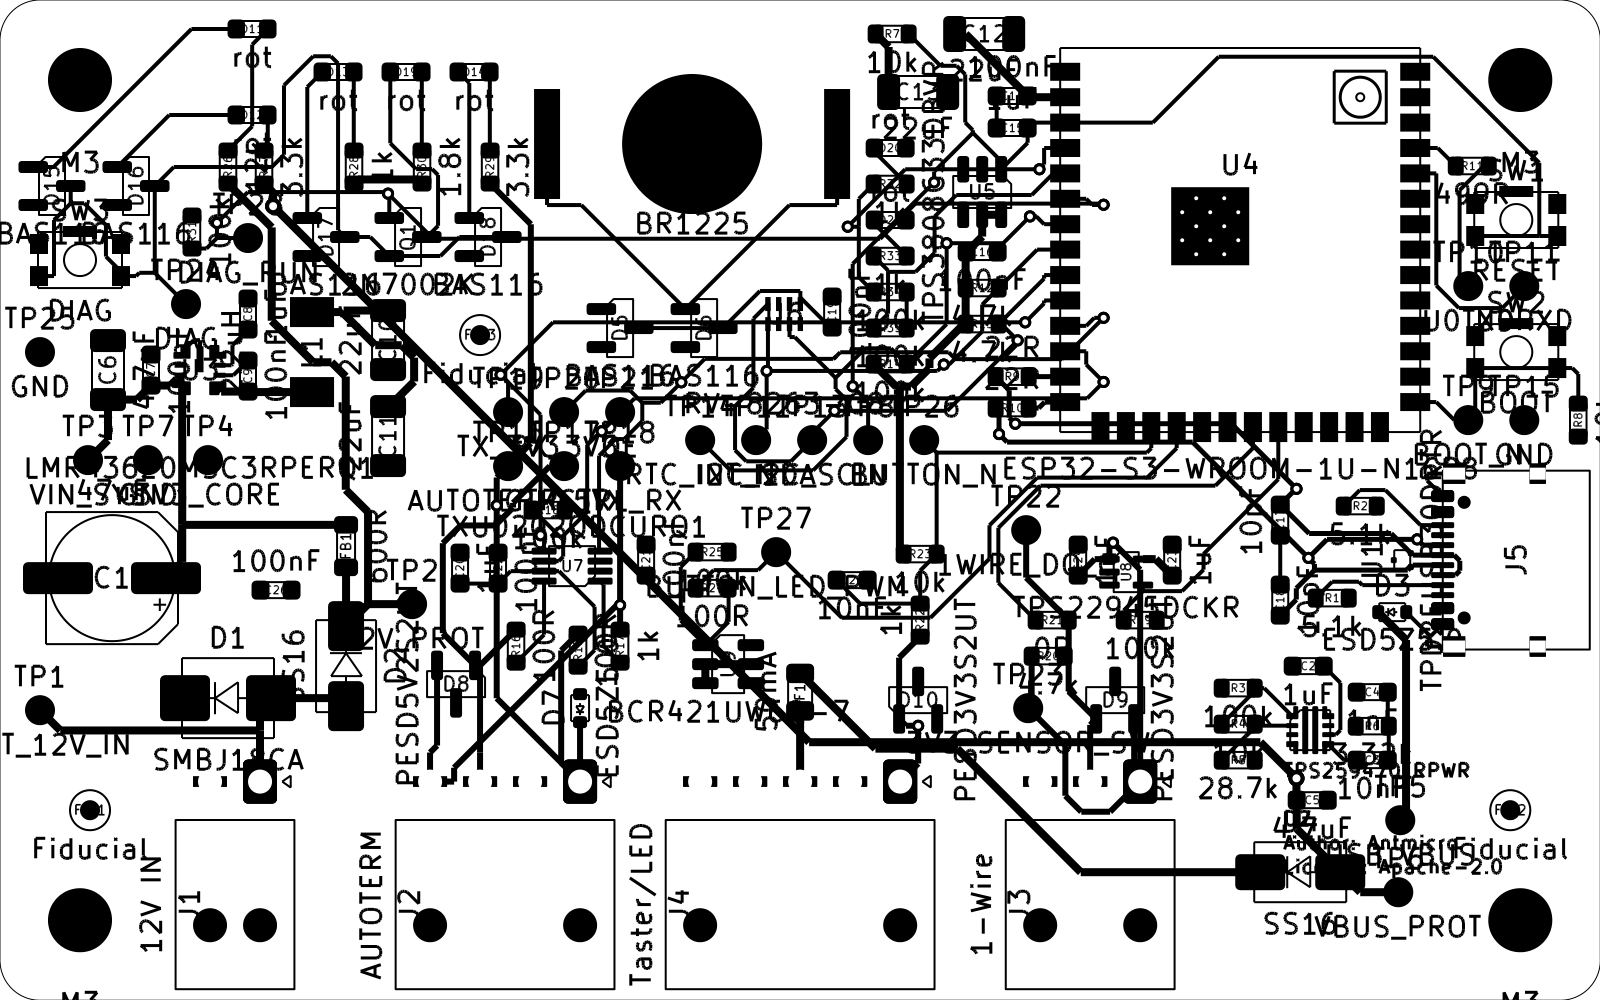
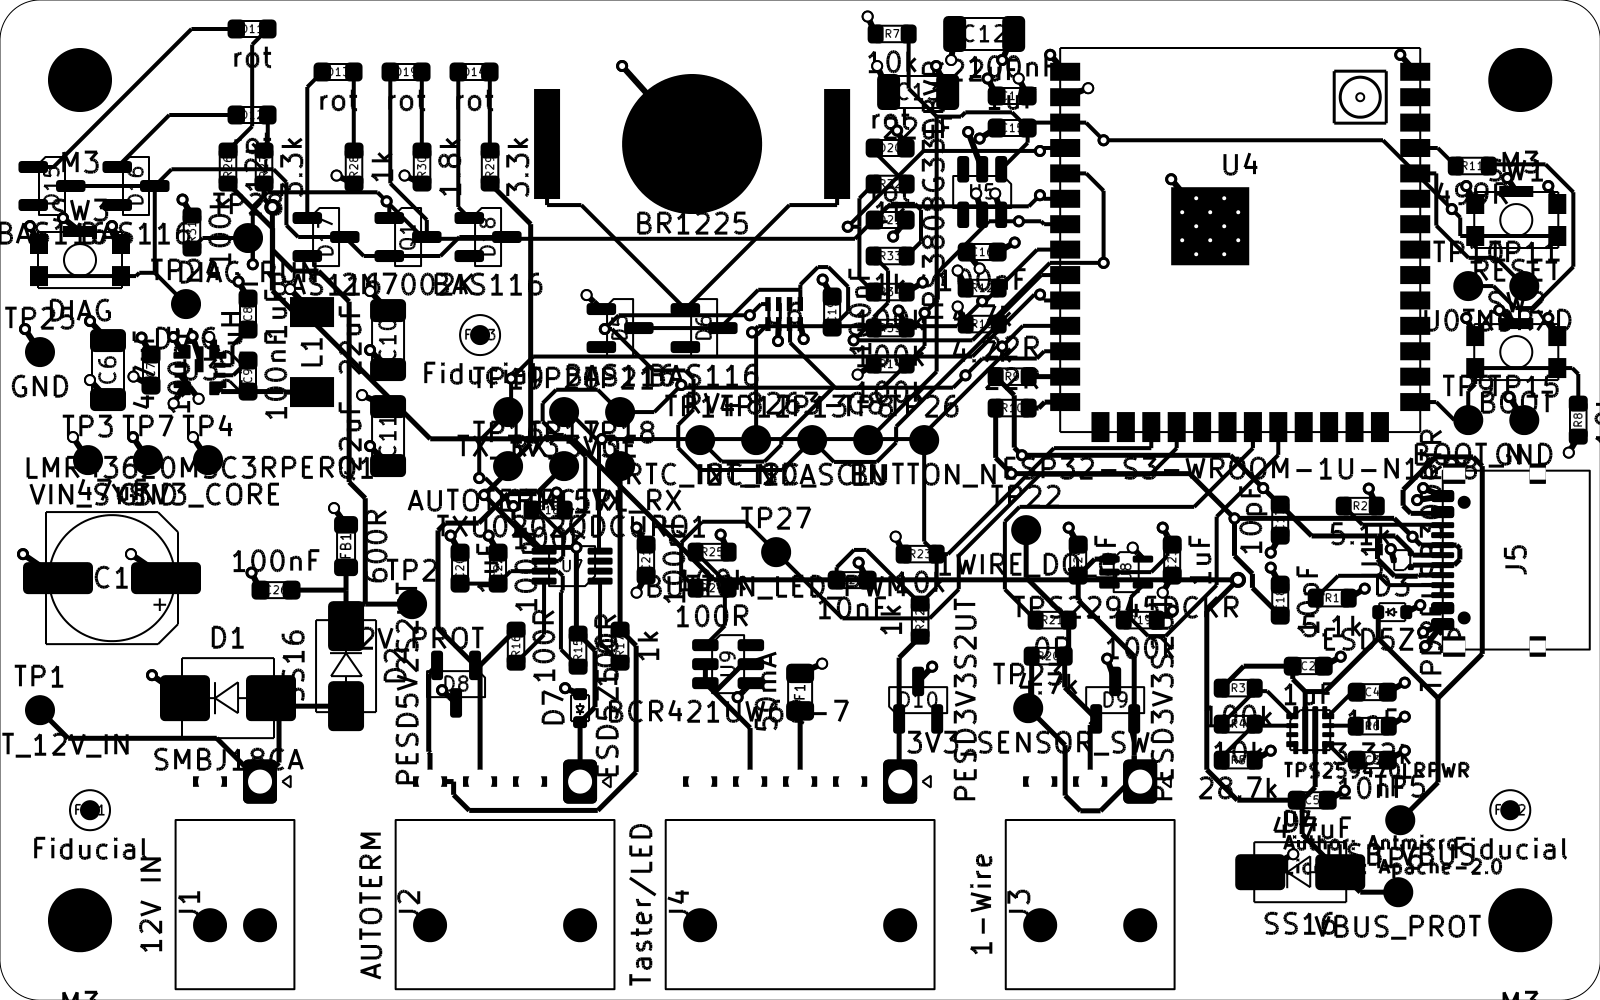
Prove routability: split L3 trial leaves 4 hand connections, 0 violations
- tools/trial_plane_fanout.py: plane vias for the trial (Freerouting 2.1.0
  fanout crashes), options for full, split and signal-only L3
- Trial 9 (L2 GND, L3 split VIN_SYS/3V3): all signals routed, 0 rule
  violations, 4 short fine-pitch/connector connections left for hand routing
- Fiducial keepout rule areas added by tools/place_v2.py
- Report section 10 rewritten with all runs and routing conclusions

diff --git a/kicad/tools/trial_plane_fanout.py b/kicad/tools/trial_plane_fanout.py
@@ -1,0 +1,140 @@
+"""NUR FÜR DEN ROUTBARKEITS-PROBELAUF auf einer Kopie: setzt neben jedes SMD-Pad eines Flächennetzes ein Via
+mit kurzer Verbindung (Fan-out) und legt die Probe-Ebenen an: GND auf In1.Cu, 3V3_CORE auf In2.Cu.
+Freerouting 2.1.0 kann das nicht selbst (Fan-out-Routine bricht mit NullPointerException ab).
+
+Via 0,6/0,3 mm, Leiterbahn 0,3 mm, kein Via-in-Pad, 0,2 mm Abstand zu fremden Netzen (Pads und schon gesetzte Vias),
+0,3 mm zum Rand, Suchradius 1,2 mm um die Padkante.
+Aufruf (KiCad-Python): python3 tools/trial_plane_fanout.py <kopie>.kicad_pcb [--l3-split | --l3-signal]
+--l3-split: L3 geteilt in VIN_SYS (unten/links) und 3V3_CORE (oben).
+--l3-signal: keine 3V3-Ebene; L3 bleibt Lage für Versorgung und langsame Signale, 3V3-Pads bekommen nur Vias.
+"""
+import sys, math
+import pcbnew
+
+PLANES = {'GND': pcbnew.In1_Cu, '3V3_CORE': pcbnew.In2_Cu}
+VIA_ONLY = set()   # Netze, die nur Vias bekommen, ohne eigene Ebene (Option --l3-signal)
+FULL = [(100.3, 100.3), (179.7, 100.3), (179.7, 149.7), (100.3, 149.7)]
+OUTLINE = {}       # Netz -> Polygon; Standard ganze Platine
+# Option --l3-split: L3 geteilt – VIN_SYS unten/links (12-V-Seite), 3V3_CORE oben (Last), 0,4 mm Trennspalt
+SPLIT = {
+    'VIN_SYS': [(100.3, 116.0), (109.3, 116.0), (109.3, 124.6), (121.0, 124.6), (121.0, 131.0), (179.7, 131.0), (179.7, 149.7), (100.3, 149.7)],
+    '3V3_CORE': [(100.3, 100.3), (179.7, 100.3), (179.7, 130.6), (121.4, 130.6), (121.4, 124.2), (109.7, 124.2), (109.7, 115.6), (100.3, 115.6)],
+}
+VIA_D, DRILL, W, CLR, SEARCH = 0.6, 0.3, 0.3, 0.2, 1.2
+BOARD = (100.0, 100.0, 180.0, 150.0)
+
+
+def main(path):
+    b = pcbnew.LoadBoard(path); mm, fm = pcbnew.ToMM, pcbnew.FromMM
+    # Probe-Ebenen
+    for net, layer in PLANES.items():
+        if net in VIA_ONLY: continue
+        if any(z.GetLayer() == layer and z.GetNetname() == net for z in b.Zones()):
+            continue
+        b.SetLayerType(layer, pcbnew.LT_POWER)
+        z = pcbnew.ZONE(b); z.SetLayer(layer); z.SetNet(b.FindNet(net))
+        o = z.Outline(); o.NewOutline()
+        for x, y in OUTLINE.get(net, FULL):
+            o.Append(fm(x), fm(y))
+        z.SetLocalClearance(fm(0.2)); z.SetMinThickness(fm(0.2)); b.Add(z)
+    pads = []
+    for f in b.GetFootprints():
+        for p in f.Pads():
+            if not p.IsOnLayer(pcbnew.F_Cu): continue
+            bb = p.GetBoundingBox()
+            pads.append((f.GetReference(), p, p.GetNetname(),
+                         (mm(bb.GetLeft()), mm(bb.GetTop()), mm(bb.GetRight()), mm(bb.GetBottom())), p.GetDrillSize().x > 0))
+
+    def drect(x, y, r):
+        return math.hypot(min(max(x, r[0]), r[2]) - x, min(max(y, r[1]), r[3]) - y)
+
+    vias = []          # (x, y, net)
+    placed, failed, viapad = 0, [], []
+    for ref, p, net, r, tht in pads:
+        if net not in PLANES or tht: continue
+        cx, cy = (r[0] + r[2]) / 2, (r[1] + r[3]) / 2
+
+        def seg_ok(x1, y1, x2, y2, w=W, target=None):
+            for _, _, n2, r2, _ in pads:
+                if r2 is r or r2 is target or n2 == net: continue
+                for k in range(0, 21):
+                    t = k / 20; px, py = x1 + (x2 - x1) * t, y1 + (y2 - y1) * t
+                    if drect(px, py, r2) < w / 2 + CLR: return False
+            return True
+
+        def search(sx, sy):
+            best = None
+            for j in range(int((r[3] - r[1] + 2 * SEARCH) / 0.1) + 1):
+                for i in range(int((r[2] - r[0] + 2 * SEARCH) / 0.1) + 1):
+                    x, y = r[0] - SEARCH + i * 0.1, r[1] - SEARCH + j * 0.1
+                    if not (BOARD[0] + 0.3 + VIA_D / 2 <= x <= BOARD[2] - 0.3 - VIA_D / 2 and BOARD[1] + 0.3 + VIA_D / 2 <= y <= BOARD[3] - 0.3 - VIA_D / 2):
+                        continue
+                    d0 = drect(x, y, r)
+                    if d0 < VIA_D / 2 + 0.1: continue                         # kein Via-in-Pad
+                    if any(r2 is not r and drect(x, y, r2) < VIA_D / 2 + (0.1 if n2 == net else CLR) for _, _, n2, r2, _ in pads):
+                        continue
+                    if any(math.hypot(x - vx, y - vy) < VIA_D + (0.05 if vn == net else CLR) for vx, vy, vn in vias):
+                        continue
+                    if best is not None and d0 >= best[0]: continue
+                    if seg_ok(sx, sy, x, y): best = (d0, x, y)
+            return best
+
+        route = None
+        best = search(cx, cy)
+        if best is not None:
+            route = [(cx, cy), (best[1], best[2])]
+        else:
+            # L-förmiger Ausstieg: erst senkrecht aus dem Pin heraus, dann zum Via
+            hw, hh = (r[2] - r[0]) / 2, (r[3] - r[1]) / 2
+            for dx, dy in [(hw + 0.45, 0), (-hw - 0.45, 0), (0, hh + 0.45), (0, -hh - 0.45)]:
+                ex, ey = cx + dx, cy + dy
+                if not seg_ok(cx, cy, ex, ey): continue
+                best = search(ex, ey)
+                if best is not None:
+                    route = [(cx, cy), (ex, ey), (best[1], best[2])]; break
+        if route is None:
+            # Innenpins von Feinraster-ICs: zum benachbarten Pad desselben Netzes (Abblockkondensator mit Via),
+            # vgl. TPS25947 8.4.1 (Rückführung der Hilfsbauteile zum GND-Pin)
+            cands = sorted((math.hypot((r2[0] + r2[2]) / 2 - cx, (r2[1] + r2[3]) / 2 - cy), r2, p2) for _, p2, n2, r2, _ in pads
+                           if n2 == net and r2 is not r and p2.GetParentFootprint().GetReference() != ref)
+            for d, r2, p2 in cands:
+                if d > 3.0: break
+                tx, ty = (r2[0] + r2[2]) / 2, (r2[1] + r2[3]) / 2
+                if seg_ok(cx, cy, tx, ty, 0.2, r2):
+                    t = pcbnew.PCB_TRACK(b); t.SetStart(p.GetPosition()); t.SetEnd(p2.GetPosition())
+                    t.SetWidth(fm(0.2)); t.SetLayer(pcbnew.F_Cu); t.SetNet(p.GetNet()); b.Add(t)
+                    viapad.append(f'{ref}.{p.GetNumber()} -> {p2.GetParentFootprint().GetReference()}.{p2.GetNumber()}'); break
+                hw, hh = (r[2] - r[0]) / 2, (r[3] - r[1]) / 2
+                done_ = False
+                for dx, dy in [(hw + 0.45, 0), (-hw - 0.45, 0), (0, hh + 0.45), (0, -hh - 0.45)]:
+                    ex, ey = cx + dx, cy + dy
+                    if seg_ok(cx, cy, ex, ey, 0.2) and seg_ok(ex, ey, tx, ty, 0.2, r2):
+                        for (x1, y1), (x2, y2) in [((cx, cy), (ex, ey)), ((ex, ey), (tx, ty))]:
+                            t = pcbnew.PCB_TRACK(b); t.SetStart(pcbnew.VECTOR2I(fm(x1), fm(y1))); t.SetEnd(pcbnew.VECTOR2I(fm(x2), fm(y2)))
+                            t.SetWidth(fm(0.2)); t.SetLayer(pcbnew.F_Cu); t.SetNet(p.GetNet()); b.Add(t)
+                        viapad.append(f'{ref}.{p.GetNumber()} -> {p2.GetParentFootprint().GetReference()}.{p2.GetNumber()} (L)'); done_ = True; break
+                if done_: break
+            else:
+                failed.append(f'{ref}.{p.GetNumber()} ({net})')
+            continue
+        x, y = route[-1]
+        v = pcbnew.PCB_VIA(b); v.SetPosition(pcbnew.VECTOR2I(fm(x), fm(y))); v.SetWidth(fm(VIA_D)); v.SetDrill(fm(DRILL))
+        v.SetNet(p.GetNet()); b.Add(v)
+        for (x1, y1), (x2, y2) in zip(route, route[1:]):
+            t = pcbnew.PCB_TRACK(b); t.SetStart(pcbnew.VECTOR2I(fm(x1), fm(y1))); t.SetEnd(pcbnew.VECTOR2I(fm(x2), fm(y2)))
+            t.SetWidth(fm(W if len(route) == 2 else 0.2)); t.SetLayer(pcbnew.F_Cu); t.SetNet(p.GetNet()); b.Add(t)
+        vias.append((x, y, net)); placed += 1
+    pcbnew.ZONE_FILLER(b).Fill(b.Zones())
+    b.Save(path)
+    print(f'Fan-out-Vias gesetzt: {placed}; ohne Platz: {len(failed)}')
+    for f in failed: print('  ', f)
+    print(f'über Nachbarpad angebunden: {len(viapad)}')
+    for f in viapad: print('  ', f)
+
+
+if __name__ == '__main__':
+    if '--l3-split' in sys.argv:
+        PLANES['VIN_SYS'] = pcbnew.In2_Cu; OUTLINE.update(SPLIT)
+    if '--l3-signal' in sys.argv:   # L3 bleibt Signal-/Versorgungslage wie im echten Lagenaufbau (Y-02)
+        VIA_ONLY.add('3V3_CORE')
+    main(sys.argv[1])

diff --git a/kicad/tools/place_v2.py b/kicad/tools/place_v2.py
@@ -168,8 +168,25 @@ def main(path):
         f = fps[r]
         f.SetOrientationDegrees(rot)
         f.SetPosition(pcbnew.VECTOR2I(pcbnew.FromMM(x), pcbnew.FromMM(y)))
+    # Sperrflächen um die Passermarken (keine Leiterbahnen, Vias, Kupferflächen; Radius 2 mm), damit jeder
+    # Router – auch Freerouting, das den lokalen Freiraum des Fiducial-Pads nicht kennt – Abstand hält.
+    for z in list(b.Zones()):
+        if z.GetIsRuleArea() and z.GetZoneName().startswith('Sperrfläche FID'):
+            b.Remove(z)
+    for r in ('FID1', 'FID2', 'FID3'):
+        x, y, _ = P[r]
+        z = pcbnew.ZONE(b); z.SetIsRuleArea(True); z.SetZoneName(f'Sperrfläche {r}')
+        z.SetDoNotAllowTracks(True); z.SetDoNotAllowVias(True); z.SetDoNotAllowZoneFills(True)
+        z.SetDoNotAllowPads(False); z.SetDoNotAllowFootprints(False)
+        ls = pcbnew.LSET(); ls.AddLayer(pcbnew.F_Cu); ls.AddLayer(pcbnew.B_Cu); ls.AddLayer(pcbnew.In1_Cu); ls.AddLayer(pcbnew.In2_Cu)
+        z.SetLayerSet(ls)
+        o = z.Outline(); o.NewOutline()
+        for k in range(16):
+            ang = 2 * 3.141592653589793 * k / 16
+            o.Append(pcbnew.FromMM(x + 2.0 * __import__('math').cos(ang)), pcbnew.FromMM(y + 2.0 * __import__('math').sin(ang)))
+        b.Add(z)
     b.Save(path)
-    print(f'{len(P)} von {len(fps)} Footprints platziert')
+    print(f'{len(P)} von {len(fps)} Footprints platziert, 3 Sperrflächen um die Passermarken')
 
 
 if __name__ == '__main__':

diff --git a/kicad/Platzierung_2_Bericht.md b/kicad/Platzierung_2_Bericht.md
@@ -126,6 +126,7 @@ Abstände Padmitte zu Padmitte.
 | K-01 | Erster Entwurf: BAS116 direkt über der LED-Reihe, kein Platz für G-01-Beschriftung | Diagnosebereich neu geordnet: LED-Bild frei, Unterbau in zwei Reihen darunter |
 | K-02 | Bauteile direkt vor den Modulpads 4–12 (Routing-Engpass, Signale nur durch 0,2-mm-Spalte) | Fan-out-Streifen freigehalten, RESET-Taster an den rechten Rand, U5/C16/R12/R13 nach links |
 | K-03 | Courtyard-Kollisionen D4/TP5, D9/R20, BT1/SW1, D18/Q1, D15/D16 mit H1 | Positionen korrigiert, Prüfung ohne Befund |
+| K-06 | Freerouting ignoriert den lokalen Freiraum der Passermarken | Sperrflächen (Radius 2 mm, alle Kupferlagen) um FID1–FID3, Teil von `tools/place_v2.py` |
 | K-05 | Passermarke FID3 lag in einem Routing-Kanal (AUTOTERM, 3V3): Freiraum 0,6 mm und Maskenöffnung verletzt (Probelauf 1) | FID3 nach (124,0/116,75) an eine Stelle ohne Leiterbahnverkehr |
 | K-04 | 38 Footprints mit Rundungsabweichungen von 1 nm zur Bibliothek (DRC lib_footprint_mismatch) | aus der Bibliothek neu geladen; Pads, Netze, Felder und Schaltplanbezug nachweislich unverändert. U4 und J5 tragen jetzt die Bibliotheks-Montageart „SMD“ |
 
@@ -147,7 +148,7 @@ Vollständiger Bericht: `output/drc.rpt` (wird nicht versioniert, mit dem Befehl
 |---|---|
 | E-02 | **Bestückungsdruck – entschieden 2026-10-14:** Referenzbezeichner nur auf der Bestückungszeichnung (F.Fab). Der Silkscreen trägt die Y-08-Inhalte: Steckerbezeichnungen und Pin 1, Polaritäten, Batteriepolung, RESET/BOOT/DIAG, Status-LEDs, Energiefluss-Bild, Revision, Testpunktnamen. Umsetzung nach dem Routing-Probelauf. |
 | R-01 | Ratsnest-Kreuzungen langsamer Diagnose-/Steuerleitungen erfordern Lagenwechsel auf L3/L4. Akzeptiert, Machbarkeit im Routing zu bestätigen. |
-| R-02 | Routbarkeits-Probelauf mit Freerouting 2.1.0 auf einer Kopie: beauftragt 2026-10-14, Ergebnis siehe Abschnitt 10. |
+| R-02 | Routbarkeit nachgewiesen (Abschnitt 10, Lauf 9): 0 Verletzungen, alle Signale geroutet, 4 kurze Verbindungen von Hand. |
 | R-03 | U4/J5 als „SMD“ in der Bestückungsdatei; THT-Schirmlaschen von J5 bei der JLCPCB-Bestellung prüfen (Phase 5). |
 | R-04 | C1 (Elko) und BT1 sind die schwersten Teile. C1 liegt ≈ 17 mm von H3; Befestigung gegen Vibration (M-03) bei Bedarf mit Kleber. |
 
@@ -164,29 +165,41 @@ Vollständiger Bericht: `output/drc.rpt` (wird nicht versioniert, mit dem Befehl
 
 ## 10. Routbarkeits-Probelauf (Freerouting 2.1.0, nur Bewertung)
 
-Der Probelauf läuft auf einer Kopie und dient nur der Bewertung der Platzierung, nicht als Layout. Freerouting 2.1.0 von `github.com/freerouting/freerouting` ist die letzte Version für Java 21.
+Der Probelauf läuft immer auf einer Kopie, die Projektplatine bleibt ohne Leiterbahnen. Bewertet wird jeweils nach dem Import mit dem KiCad-DRC und den echten Projektregeln (`.kicad_dru`).
 
-**Aufbau:**
-- L2 als GND-Ebene (Lagentyp „power“), damit keine Signale auf L2 laufen.
-- Abstand 0,2 mm (USB 0,15 mm), strenger als die Netzklassen.
-- Versorgungsnetze 0,4 mm statt 0,65 mm, als Ersatz für Einschnürungen an Feinraster-Pins.
-- Auftragszeitlimit 5 min.
-- Bewertung mit den echten Projektregeln (`.kicad_dru`).
+**Werkzeuge:**
+- Freerouting 2.1.0 von `github.com/freerouting/freerouting`, die letzte Version für Java 21.
+- `tools/trial_plane_fanout.py` setzt die Ebenen-Vias. Grund: Die Fan-out-Funktion von Freerouting 2.1.0 bricht mit einer NullPointerException ab.
 
-| Kennzahl | Lauf 1 | Lauf 2 (FID3 verschoben, Versorgung 0,4 mm) |
-|---|---|---|
-| Verletzungen der Projektregeln | 6 (alle an FID3) | **0** |
-| Vias | 21 | 31 |
-| offene Verbindungen gesamt | 102 | 82 |
-| davon Versorgungs-/Flächennetze | 99 | 79 (GND 60, 3V3 11, VBUS 5, VIN_SYS, 12V_PROT, VBUS_PROT je 1) |
-| davon Signale | 1 | 3 (U2-ILM 1,4 mm, U2-ITIMER 1,9 mm, LED_PWM_MINUS 6 mm) |
+**Einstellungen:**
+- Abstand 0,2 mm (USB 0,15 mm).
+- Optimierer aus, weil Freerouting 2.1.0 mit Optimierer im Kommandozeilenbetrieb einen älteren Zwischenstand in die SES-Datei schreibt (nachgewiesen: 32 von 104 Netzen).
 
-**Bewertung:**
-- **Signale:** Alle Signale bis auf drei kurze Verbindungen wurden geroutet, fast vollständig auf L1. Die drei offenen Signalverbindungen sind gerade, freie Strecken an den VQFN-HR-Sonderpads der eFuse bzw. am THT-Pad von J4. Freerouting kann dort mit fester Breite nicht einschnüren; von Hand sind sie trivial.
-- **Flächennetze:** Freerouting bindet SMD-Pads nicht selbst an die Ebenen an. Nachweis der Machbarkeit mit `tools/check_plane_vias.py`: **alle 107 Pads** von GND, 3V3_CORE und VIN_SYS haben Platz für ein eigenes Via (0,6/0,3 mm, kein Via-in-Pad, 0,2 mm zu fremden Netzen) innerhalb von 1,2 mm.
-- **Fazit:** Die Platzierung ist routbar. Engpässe gab es nur an FID3 (behoben).
+| Lauf | Aufbau | Verletzungen | offen (KiCad) | davon Signale |
+|---|---|---:|---:|---|
+| 1 | L2 GND-Ebene, Versorgung 0,65 mm | 6 (FID3) | 102 | 1 |
+| 2 | FID3 verschoben, Versorgung 0,4 mm | 0 | 82 | 3 |
+| 3–4 | Freerouting-Fan-out | – | – | Abbruch (Fehler in Freerouting) |
+| 5–6 | eigene Ebenen-Vias, L3 = 3V3-Ebene | 4 (FID3) | 23 | 0 |
+| 7 | Sperrflächen um die Passermarken, Versorgung 0,25 mm | 0 | 13 | 0 |
+| 8 | L3 als reine Signal-/Versorgungslage, 3V3 als Leiterbahnen | 0 | 37 | 3 |
+| **9** | **L3 geteilt: VIN_SYS unten/links, 3V3 oben** | **0** | **4** | **0** |
 
-![Probelauf 2 (Bewertung, nicht das Layout)](doc/Platzierung_3_Routing_Probelauf.png)
+**Lauf 9:** 135 Vias, 670 Segmente (618 auf L1, 52 auf L4). Offen bleiben:
+- **U7.2 (GND), U7.3 (3V3), U2.8 (GND):** Innenpins im Feinraster. Die gerade Verbindung kreuzt Nachbarpins; von Hand mit drei Segmenten zum benachbarten Abblock- bzw. Hilfsbauteil, bei U2 wie in TPS25947 8.4.1 gefordert.
+- **USB_VBUS an J5 A4:** kurze Verbindung am Stecker, von Hand.
+
+**Ergebnisse:**
+- Alle Signalnetze sind geroutet.
+- Alle 107 Pads der Flächennetze haben Platz für ein eigenes Via ohne Via-in-Pad (`tools/check_plane_vias.py`).
+
+**Folgerungen für das Routing (Schritt 6):**
+1. **L3 geteilt:** VIN_SYS-Fläche unten/links (12-V-Seite, FB1 → Schaltregler → F1 → D4), 3V3-Fläche oben (Last). Lauf 8 zeigt: 3V3 nur als Leiterbahnen (25 Pads) ist ungünstig.
+2. **Diagnosezuführungen** `12V_PROT` und `VBUS_PROT` (mA, langsam) als dünne Leiterbahnen auf L4.
+3. **Sperrflächen:** um die Passermarken (umgesetzt) und für Vias unter dem Knopfzellenhalter (Kontaktbügel = VBAT über dem GND-Pad).
+4. **Von Hand:** die vier offenen Verbindungen; Versorgungsflächen an den Feinraster-Pins (SW-Knoten, eFuse IN/OUT).
+
+![Probelauf 9 (Bewertung, nicht das Layout)](doc/Platzierung_3_Routing_Probelauf.png)
 
 ## Anhang: Positionen (exakt, aus der Leiterplatte)
 
